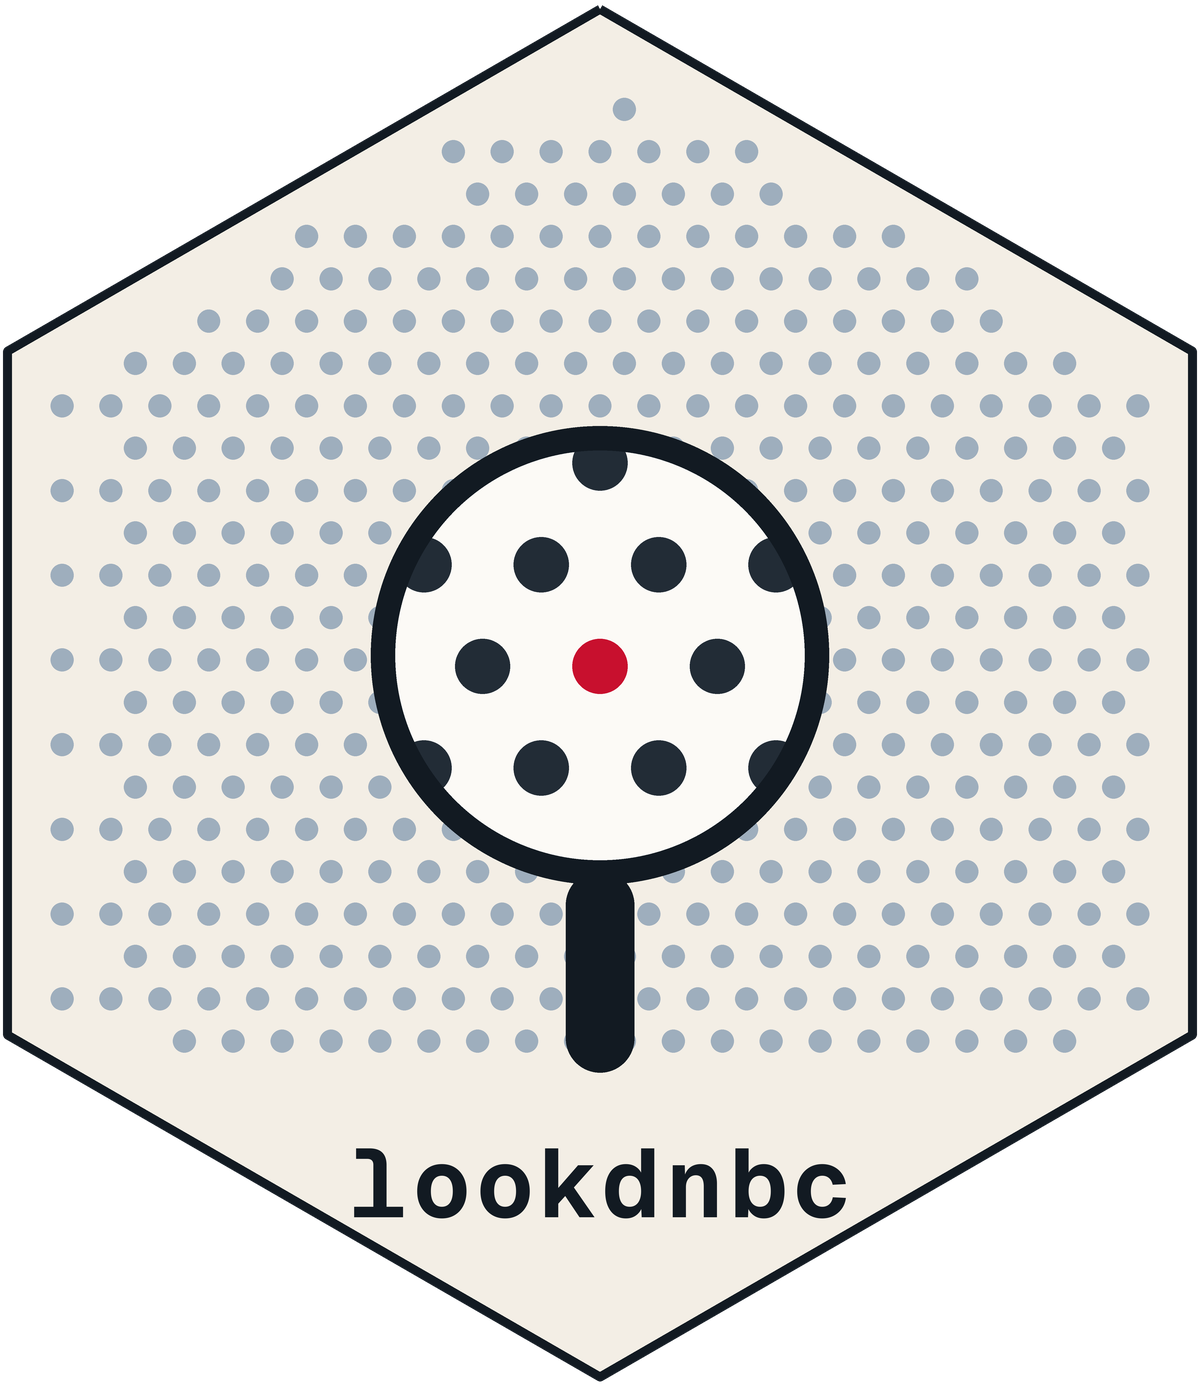
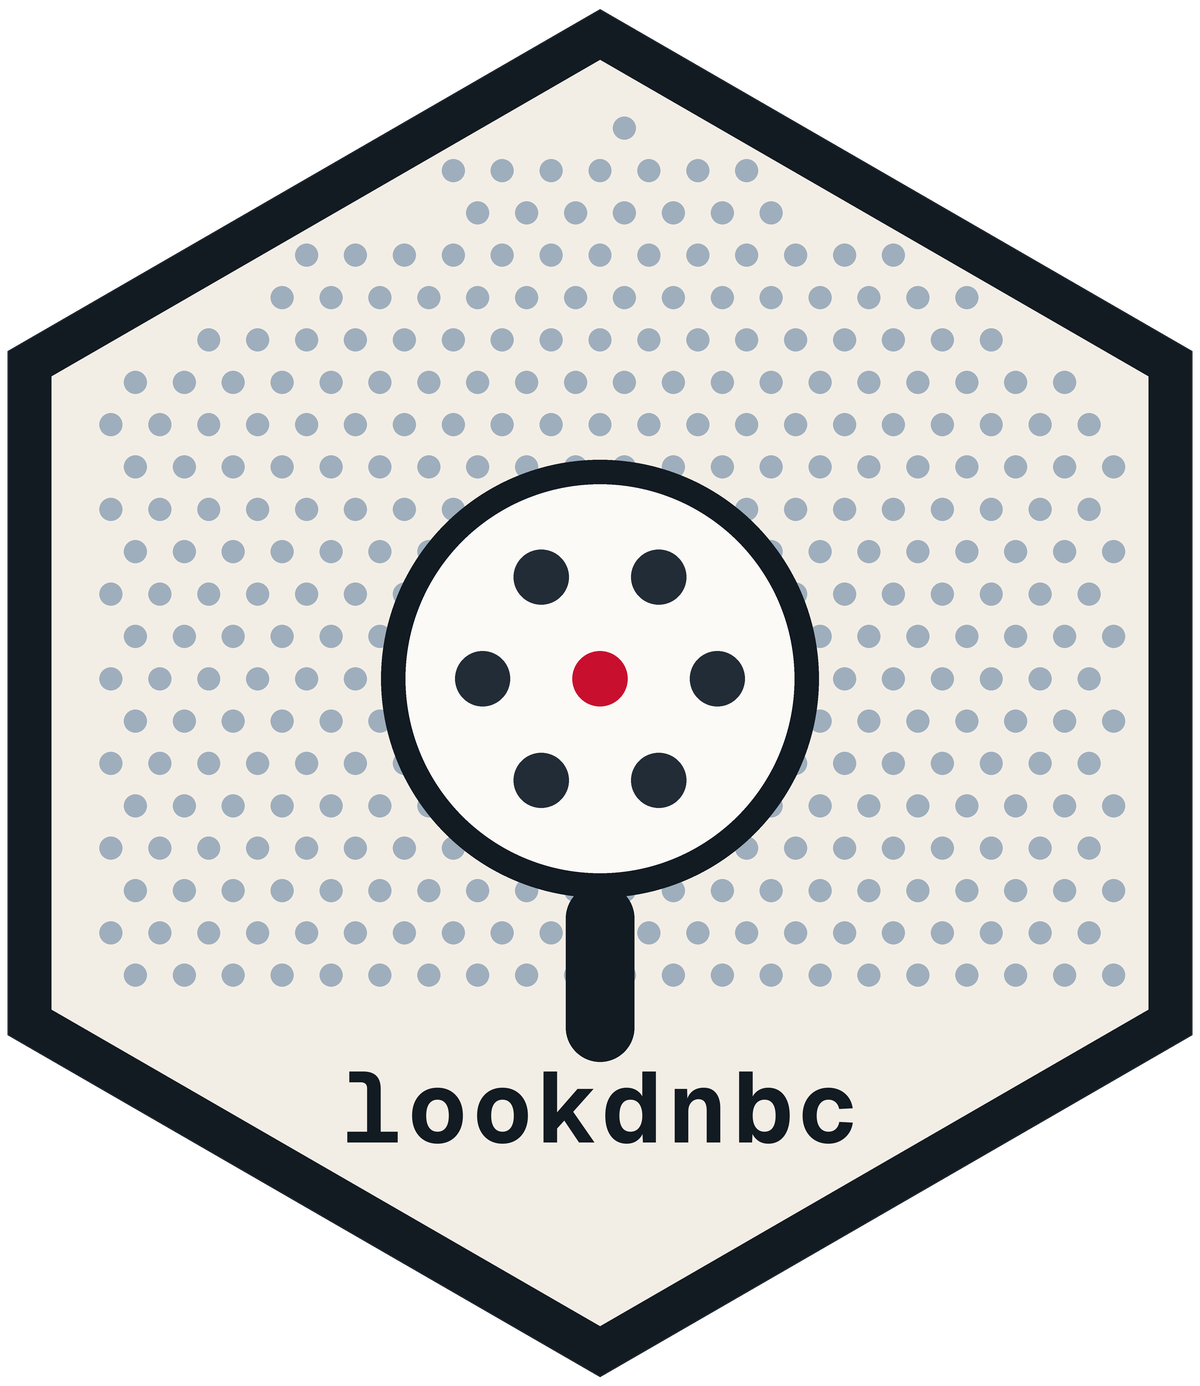
Bolden the hex edge to match the R-package convention
Measured against tidymodels/recipes, whose border is 3.75% of image width;
ours was 0.75% and vanished when the sticker was scaled down. Now 3.58%, and
the silhouette survives to 64px.

Drawn as an ink hexagon with the paper hexagon laid over it rather than a
stroked path: a heavy stroke leaves a notch at the 60-degree apex, and the fill
difference gives an exact perpendicular thickness.

The heavier edge eats interior width, so the wordmark now sizes itself to the
width the hexagon actually offers at its baseline instead of a fixed point size,
and the lens is seated on an on-axis lattice point so the found mark sits dead
centre and the enlarged pattern stays mirror-symmetric.

diff --git a/design/make_hex.py b/design/make_hex.py
@@ -93,18 +93,29 @@ def build():
 
     cx, cy = w / 2.0, h / 2.0
     R = h / 2.0 - 9 * SS
-    d.polygon(hexpath(cx, cy, R), fill=PAPER)
+    BW = 44 * SS                       # perpendicular border thickness
+    R_in = R - BW / math.cos(math.radians(30))
+    d.polygon(hexpath(cx, cy, R), fill=INK)
+    d.polygon(hexpath(cx, cy, R_in), fill=PAPER)
 
     # --- the codebook: a field of small marks -----------------------------
-    R_field = R - 58 * SS
+    R_field = R_in - 26 * SS
     s = 0.0715 * R
     r_small = s * 0.235
 
-    lx, ly = cx, cy - 0.055 * R          # lens centre, on the axis
-    lr = 0.335 * R                       # lens radius
-    plate_top = cy + 0.545 * R
+    lr = 0.320 * R                       # lens radius
+    plate_top = cy + 0.450 * R
 
     pts = lattice(cx, cy, R_field, s)
+
+    # Seat the lens on a lattice point that already lies on the axis, so the found
+    # mark sits exactly at the centre of the glass and the enlarged pattern stays
+    # mirror-symmetric. Snapping the lens to the marks, rather than the reverse,
+    # keeps the field a single uninterrupted lattice.
+    lx = cx
+    axis = [q for q in pts if abs(q[0] - cx) < 1e-6]
+    best = min(axis, key=lambda q: abs(q[1] - (cy - 0.075 * R)))
+    ly = best[1]
     for (x, y) in pts:
         if y > plate_top:
             continue                     # nameplate keeps its own ground
@@ -112,7 +123,7 @@ def build():
 
     # --- the handle, on the axis ------------------------------------------
     hw_ = 0.050 * R
-    d.rounded_rectangle([cx - hw_, ly + lr - 0.02 * R, cx + hw_, ly + lr + 0.275 * R],
+    d.rounded_rectangle([cx - hw_, ly + lr - 0.02 * R, cx + hw_, ly + lr + 0.240 * R],
                         radius=hw_, fill=INK)
 
     # --- the glass ---------------------------------------------------------
@@ -122,7 +133,6 @@ def build():
 
     # the same lattice, enlarged about the lens centre
     inner = lr / MAG + s
-    best = min(pts, key=lambda p: (p[0] - lx) ** 2 + (p[1] - ly) ** 2)
     for (x, y) in pts:
         if abs(x - lx) > inner or abs(y - ly) > inner:
             continue
@@ -140,12 +150,17 @@ def build():
     d.ellipse([lx - lr, ly - lr, lx + lr, ly + lr], outline=INK, width=rim)
 
     # --- nameplate ---------------------------------------------------------
-    f = ImageFont.truetype(os.path.join(FONTS, "GeistMono-Bold.ttf"), int(97 * SS))
+    y_text = cy + 0.625 * R
+    avail = 2 * half_width(y_text - cy, R_in) * 0.78
+    size, track = int(100 * SS), 5.0 * SS
+    while size > 20:
+        f = ImageFont.truetype(os.path.join(FONTS, "GeistMono-Bold.ttf"), size)
+        wmark = sum(d.textlength(c, font=f) for c in "lookdnbc") + track * 7
+        if wmark <= avail:
+            break
+        size -= 2 * SS
     asc, _ = f.getmetrics()
-    letterspaced(d, "lookdnbc", f, cx, cy + 0.735 * R - asc * 0.78, 5.0 * SS, INK)
-
-    d.line(hexpath(cx, cy, R) + [hexpath(cx, cy, R)[0]], fill=INK,
-           width=int(9 * SS), joint="curve")
+    letterspaced(d, "lookdnbc", f, cx, y_text - asc * 0.78, track, INK)
 
     out = img.resize((W, H), Image.LANCZOS)
     p = os.path.join(HERE, os.environ.get("HEXOUT", "lookdnbc-hex.png"))
